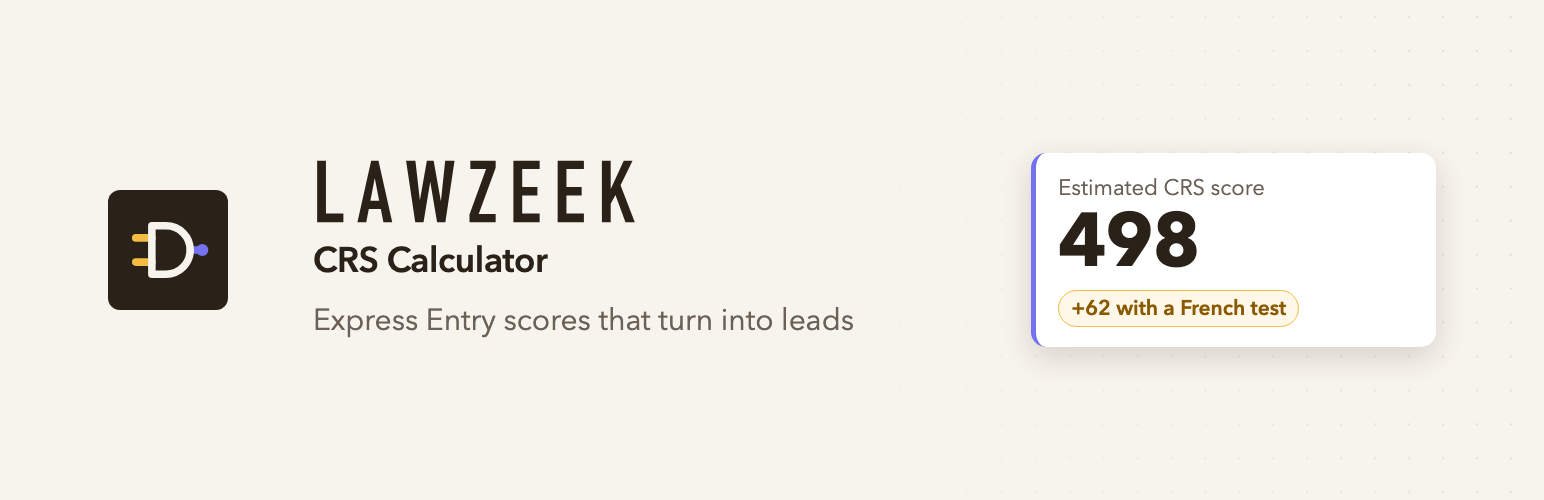
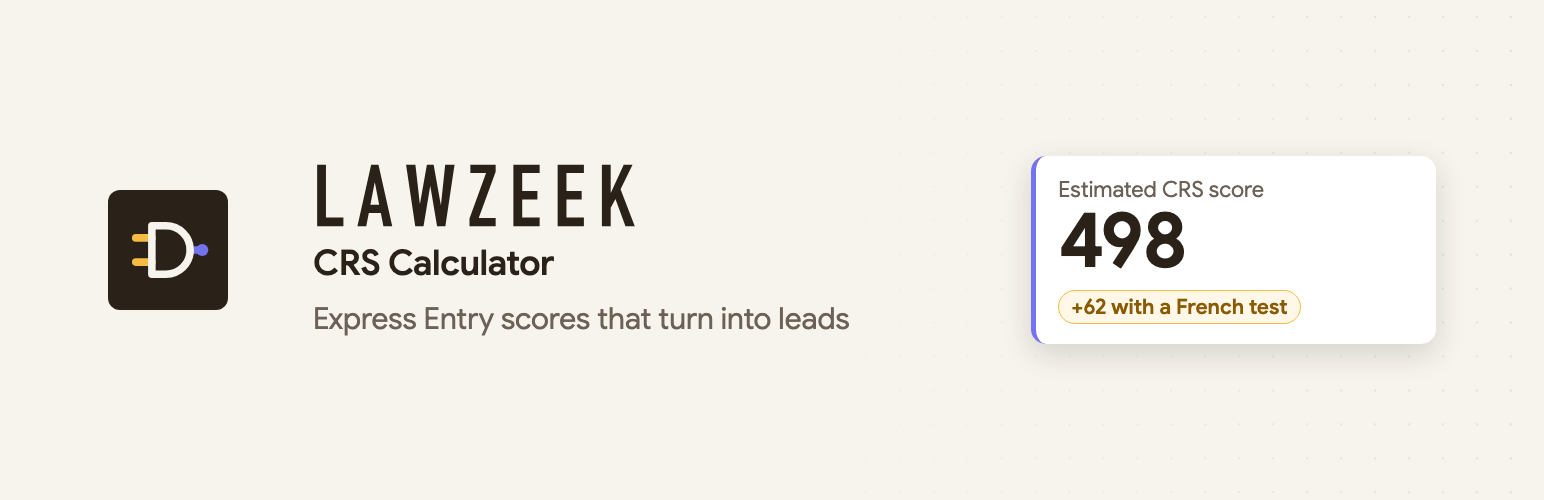
Admin font: Google Sans, bundled locally
- assets/fonts/google-sans-latin.woff2 (36 KB, variable 400-700) with its SIL OFL 1.1 licence
- @font-face in the admin CSS; Tailwind sans stack starts with Google Sans
- Loaded from the site itself, so the plugin still makes no outside requests
- WordPress.org banners re-rendered with Google Sans; readme credits the font

diff --git a/assets/css/admin.css b/assets/css/admin.css
@@ -3,10 +3,24 @@
  * Utilities are prefixed "lz-" and scoped to .lzcrs-app, so they never touch the rest of wp-admin.
  */
 
+/* Google Sans (SIL Open Font License 1.1, see assets/fonts/OFL.txt), bundled so the admin makes no outside requests. */
+
+@font-face {
+  font-family: "Google Sans";
+
+  font-style: normal;
+
+  font-weight: 400 700;
+
+  font-display: swap;
+
+  src: url("../fonts/google-sans-latin.woff2") format("woff2");
+}
+
 .lzcrs-app {
   --tw-bg-opacity: 1;
   background-color: rgb(246 249 252 / var(--tw-bg-opacity, 1));
-  font-family: Inter, -apple-system, BlinkMacSystemFont, "Segoe UI", Roboto, "Helvetica Neue", sans-serif;
+  font-family: "Google Sans", Inter, -apple-system, BlinkMacSystemFont, "Segoe UI", Roboto, "Helvetica Neue", sans-serif;
   font-size: 14px;
   line-height: 1.5;
   --tw-text-opacity: 1;

diff --git a/brand/src/banner.html b/brand/src/banner.html
@@ -1,4 +1,4 @@
-<!doctype html><html><head><meta charset="utf-8"><style>
+<!doctype html><html><head><meta charset="utf-8"><style>@font-face{font-family:"Google Sans";font-weight:400 700;src:url("../../assets/fonts/google-sans-latin.woff2") format("woff2")}
 html,body{margin:0;width:100vw;height:100vh;overflow:hidden;font-family:"Google Sans",Inter,"Avenir Next",-apple-system,"Segoe UI",Roboto,sans-serif}
 body{background:#f7f4ed;color:#2a2219;display:flex;align-items:center;gap:5.5vw;padding:0 7vw;box-sizing:border-box;position:relative}
 body::after{content:"";position:absolute;inset:0;background-image:radial-gradient(rgba(42,34,25,.10) 1px,transparent 1px);background-size:2.2vw 2.2vw;mask-image:linear-gradient(90deg,transparent 45%,#000)}

diff --git a/assets/src/admin.css b/assets/src/admin.css
@@ -2,6 +2,15 @@
  * Source for assets/css/admin.css (Lawzeek admin screens). Built with Tailwind CSS 3.
  * Utilities are prefixed "lz-" and scoped to .lzcrs-app, so they never touch the rest of wp-admin.
  */
+/* Google Sans (SIL Open Font License 1.1, see assets/fonts/OFL.txt), bundled so the admin makes no outside requests. */
+@font-face {
+  font-family: "Google Sans";
+  font-style: normal;
+  font-weight: 400 700;
+  font-display: swap;
+  src: url("../fonts/google-sans-latin.woff2") format("woff2");
+}
+
 @tailwind components;
 @tailwind utilities;
 

diff --git a/assets/src/tailwind.config.js b/assets/src/tailwind.config.js
@@ -27,7 +27,7 @@ module.exports = {
         cold: { bg: '#eef2f6', fg: '#425466' },
       },
       fontFamily: {
-        sans: ['Inter', '-apple-system', 'BlinkMacSystemFont', '"Segoe UI"', 'Roboto', '"Helvetica Neue"', 'sans-serif'],
+        sans: ['"Google Sans"', 'Inter', '-apple-system', 'BlinkMacSystemFont', '"Segoe UI"', 'Roboto', '"Helvetica Neue"', 'sans-serif'],
         mono: ['ui-monospace', '"SF Mono"', 'Menlo', 'Consolas', 'monospace'],
       },
       boxShadow: {
